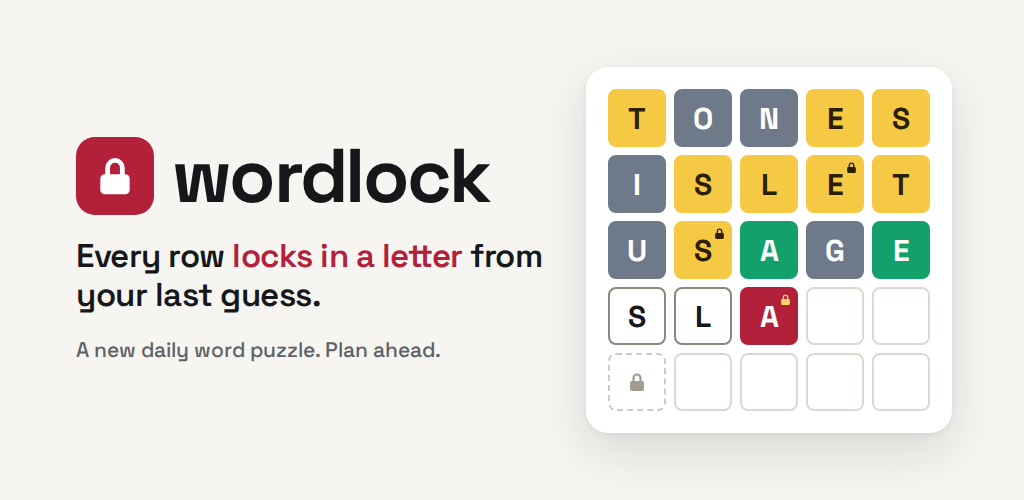
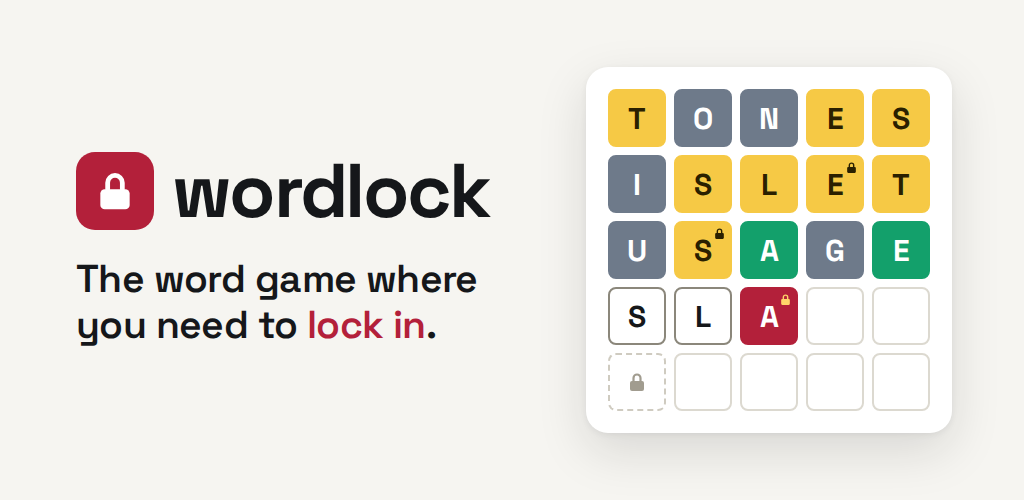
Use "The word game where you need to lock in." on the feature graphic

Changed region(s): [[0.0625, 0.27, 0.5312, 0.72]]

diff --git a/play-store-assets/feature-graphic.html b/play-store-assets/feature-graphic.html
@@ -19,11 +19,11 @@ body {
   display: flex; align-items: center; justify-content: space-between;
   padding: 0 72px 0 76px; box-sizing: border-box;
 }
-.copy { display: flex; flex-direction: column; gap: 22px; max-width: 470px; }
+.copy { display: flex; flex-direction: column; gap: 26px; max-width: 470px; }
 .logo { display: flex; align-items: center; gap: 18px; font-size: 76px; font-weight: 700; letter-spacing: -0.035em; line-height: 1; }
 .mark { width: 78px; height: 78px; border-radius: 19px; background: #b3203a; display: grid; place-items: center; }
 .mark svg { width: 44px; height: 44px; }
-.tagline { font-size: 33px; font-weight: 600; line-height: 1.18; letter-spacing: -0.015em; margin: 0; }
+.tagline { font-size: 39px; font-weight: 600; line-height: 1.18; letter-spacing: -0.015em; margin: 0; }
 .tagline em { font-style: normal; color: #b3203a; }
 .sub { font-size: 21px; font-weight: 500; color: #5d6168; margin: 0; }
 .board {
@@ -54,8 +54,7 @@ body {
     <span class="mark"><svg viewBox="0 0 24 24" fill="none" stroke="#fff" stroke-width="2.6" stroke-linecap="round"><rect x="4" y="11" width="16" height="11" rx="2.4" fill="#fff" stroke="none"></rect><path d="M8 11V7.5a4 4 0 0 1 8 0V11"></path></svg></span>
     <span>wordlock</span>
   </div>
-  <p class="tagline">Every row <em>locks in a letter</em> from your last guess.</p>
-  <p class="sub">A new daily word puzzle. Plan ahead.</p>
+  <p class="tagline">The word game where you need to <em>lock in</em>.</p>
 </div>
 <div class="board" aria-label="Example game board">
   <div class="row"><div class="t p">t</div><div class="t a">o</div><div class="t a">n</div><div class="t p">e</div><div class="t p">s</div></div>
